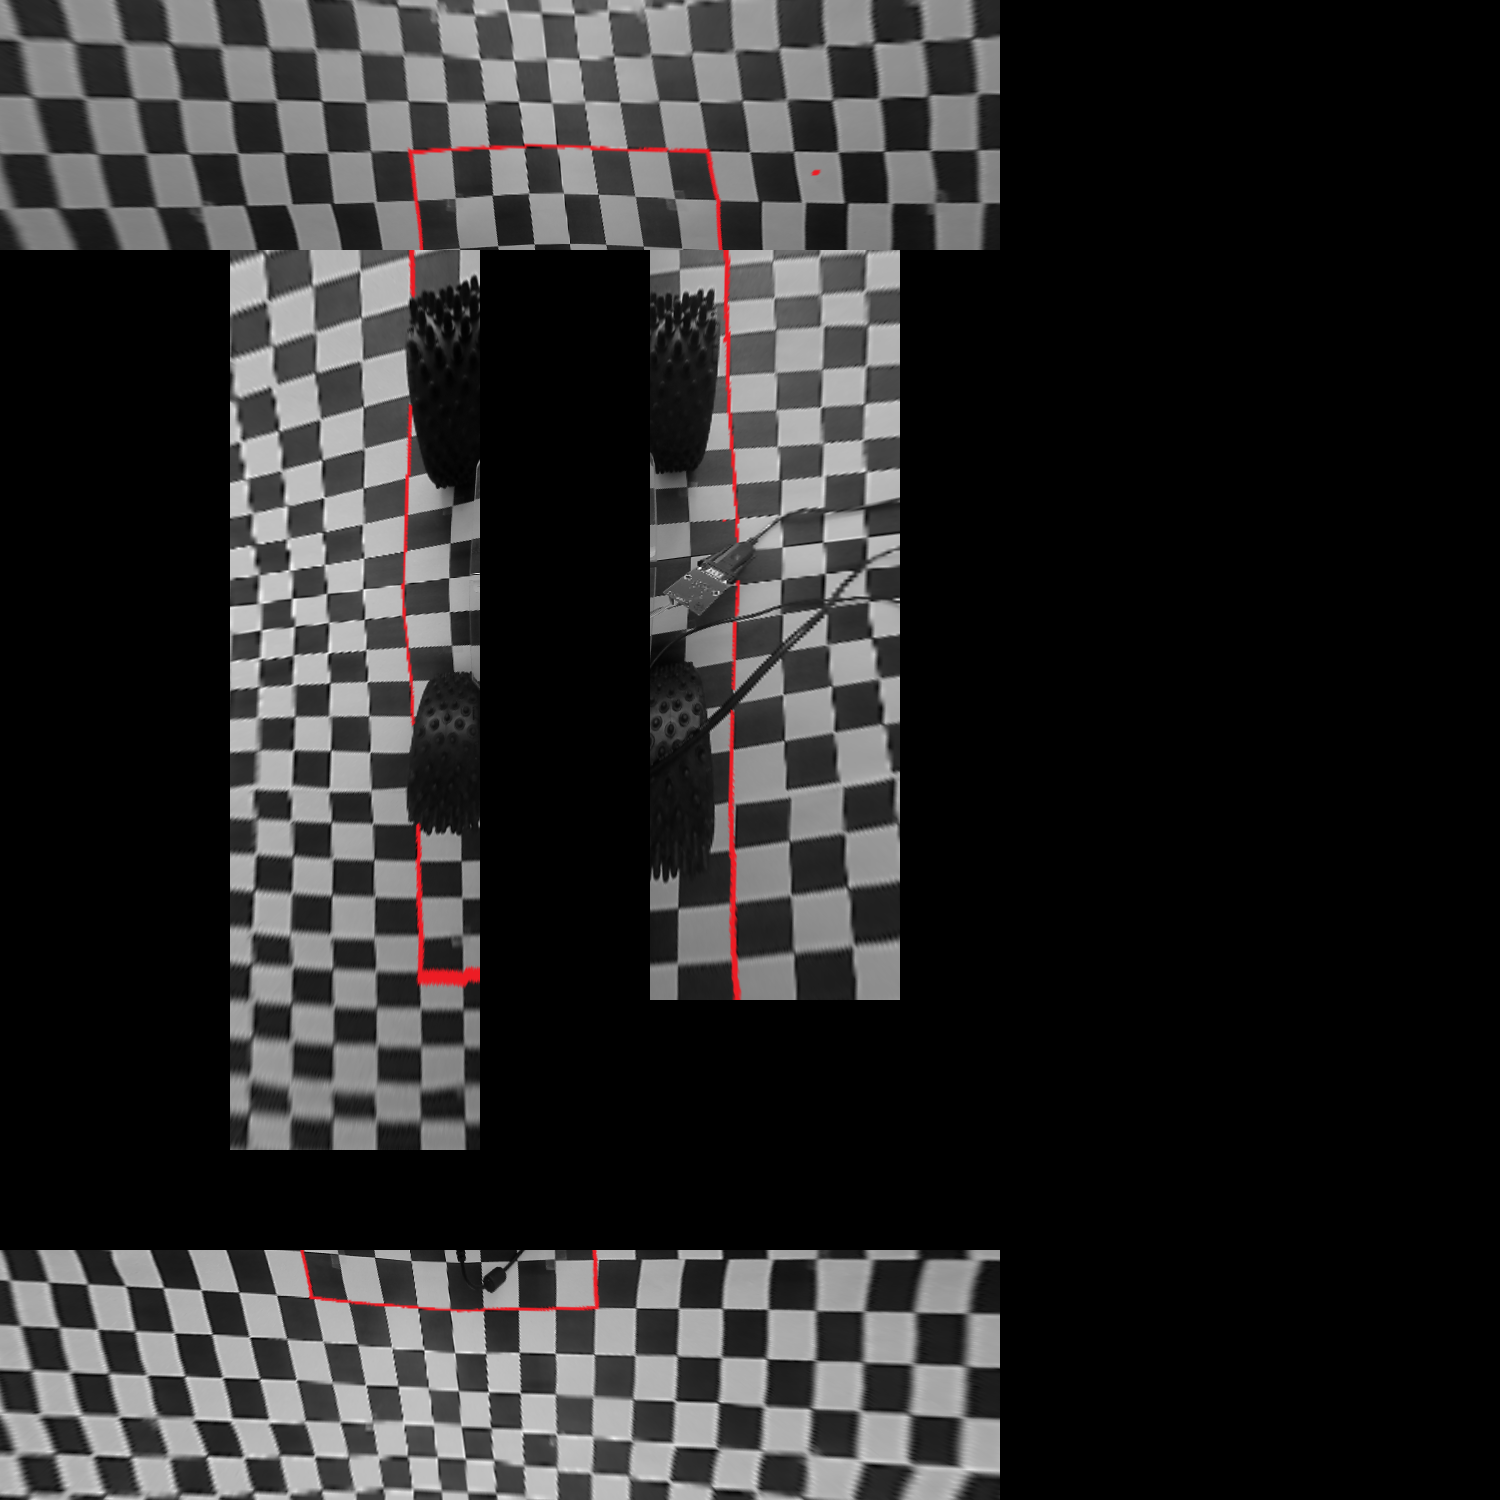
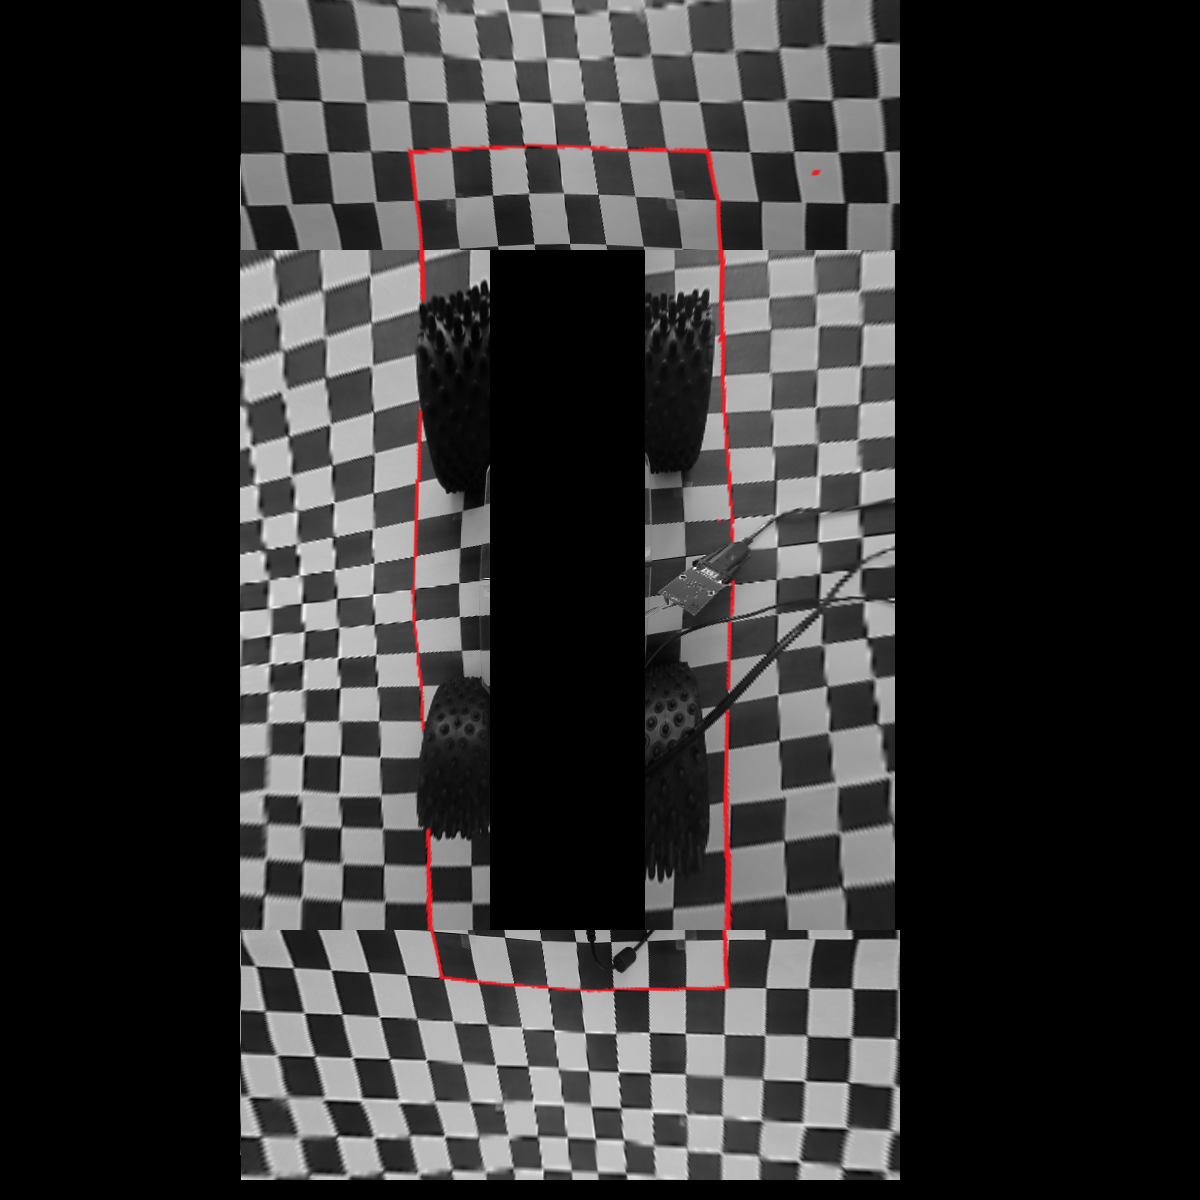
aligned/cropped

diff --git a/test.cpp b/test.cpp
@@ -32,12 +32,7 @@ static void setAlpha(Mat* img)
 }
 void fourPointTransform(Mat* img)
 {
-  vector<Point> not_a_rect_shape;
-    not_a_rect_shape.push_back(Point(420, 380));
-    not_a_rect_shape.push_back(Point(870, 370));
-    not_a_rect_shape.push_back(Point(1260, 500));
-    not_a_rect_shape.push_back(Point(20, 515));
-  const Point* point = &not_a_rect_shape[0];
+  
   int i,j ;
   Mat warped;
   Point2f src[4];
@@ -65,15 +60,21 @@ void fourPointTransform(Mat* img)
     cout<<endl;
     for (j = 0; j< 2 ; j++)
     {
-      cout <<M.at<float>(i,j)<<" ";
+      // cout <<M.at<float>(i,j)<<" ";
       // cout <<"wads";
     }
   }
   Mat draw = (*img).clone();
   warpPerspective(draw, (*img), M, Size (1000, 250),INTER_LINEAR,0);
 
-  // const Point2f* point = &src[0];
-  int n = 4;
+  //Draw region for warpPerspective
+  // vector<Point> not_a_rect_shape;
+  //   not_a_rect_shape.push_back(Point(420, 380));
+  //   not_a_rect_shape.push_back(Point(870, 370));
+  //   not_a_rect_shape.push_back(Point(1260, 500));
+  //   not_a_rect_shape.push_back(Point(20, 515));
+  // const Point* point = &not_a_rect_shape[0];
+  // int n = 4;
   // polylines(draw, &point, &n, 1, true, Scalar(0, 255, 0), 3, 8);
   // imwrite("draw.jpg", draw);
   // imshow("fourPointsWarped",*img);
@@ -84,68 +85,48 @@ void mergeImagesFourPoints(Mat* stitched, Mat front, Mat right, Mat back, Mat le
 {
   int i,j;
 
-
+  //right
+  //y0 x645
   for (j = 0; j<1000;j++)
   for(i = 0; i<250;i++)
   {
     (*stitched).at<cv::Vec3b>(j,i+645) = (right).at<cv::Vec3b>(j,i);
   }
- 
+  //left
+  //x = 155, y = 240
+  for (j = 0; j<1000;j++)
+  for(i = 0; i<250;i++)
+  {
+    (*stitched).at<cv::Vec3b>(j+155,i+240) = (left).at<cv::Vec3b>(j,i);
+  }
+
   //frontImage iterating and pasting pixels onto stitched image
-  for (j = 0; j<1000;j++)
+  //240-900 xiterating 
+  for (j = 0; j<900;j++)
+  for(i = 0; i<250;i++)
+  { 
+    if (j>240 )
+    {
+      (*stitched).at<cv::Vec3b>(i,j) = (front).at<cv::Vec3b>(i,j);
+    }
+  }
+  //back
+  //110-770 xiterating
+  //back offset y=930, x=130
+  for (j = 0; j<770;j++)
   for(i = 0; i<250;i++)
   {
-    (*stitched).at<cv::Vec3b>(i,j) = (front).at<cv::Vec3b>(i,j);
+    if(j>110)
+    {
+      (*stitched).at<cv::Vec3b>(i+930,j+130) = (back).at<cv::Vec3b>(i,j);
+    }
+    
   }
- 
-  for (j = 0; j<1000;j++)
-  for(i = 0; i<250;i++)
-  {
-    (*stitched).at<cv::Vec3b>(i+930,j+120) = (back).at<cv::Vec3b>(i,j);
-  }
-  for (j = 0; j<1000;j++)
-  for(i = 0; i<250;i++)
-  {
-    (*stitched).at<cv::Vec3b>(j+155,i+230) = (left).at<cv::Vec3b>(j,i);
-  }
+
+  imwrite("stitched1.png",*stitched);
   imshow("stitched", *stitched);
   waitKey(0);
-  // for (i = 0; i < 490; ++i)
-  // {
-  //   for (j = i; j < 1280 - i; ++j)
-  //   {
-  //     (*stitched).at<cv::Vec4b>(i,j) = (front).at<cv::Vec4b>(i,j);
-  //   }
-  // }
-
-  // // //leftImage iterating and pasting pixels onto stitched image
-  // for (i = 0; i < 490; ++i)
-  // {
-  //   for (j = i; j < 1280-i; ++j)
-  //   {
-  //     (*stitched).at<cv::Vec4b>(j,i) = (left).at<cv::Vec4b>(j,i);
-  //   }
-  // }
   
-  // //backImageIterataion
-  // for (i = 790; i < 1280; ++i)
-  // {
-  //   for (j = 1280 - i; j < i; ++j)
-  //   {
-  //     (*stitched).at<cv::Vec4b>(i,j) = (back).at<cv::Vec4b>(i - 560 ,j);
-  //   }
-  // }
-  
-  // //rightImageIteration
-  //  for (i = 790; i < 1280; ++i)
-  // {
-  //   for (j = 1279-i; j < i; ++j)
-  //   {
-  //     (*stitched).at<cv::Vec4b>(j,i) = (right).at<cv::Vec4b>(j,i-560);
-  //   }
-  // }
-  
-  imwrite("stitched1.png",*stitched);
 }
 
 
@@ -218,7 +199,7 @@ int main ()
   Mat back = imread("paintLinedPictures/backPaint.bmp", IMREAD_COLOR);
   Mat backUnd;
   Mat car = imread ("blueCarResized.png", IMREAD_COLOR);
-  Mat stitched(1500, 1500, CV_8UC3, Scalar(0, 0, 0));  
+  Mat stitched(1200, 1200, CV_8UC3, Scalar(0, 0, 0));  
   // setAlpha(&stitched);
   //init undistort rectify params
   Matx33d P (335.4360116970886, 0.0, 638.3853408401494 ,
